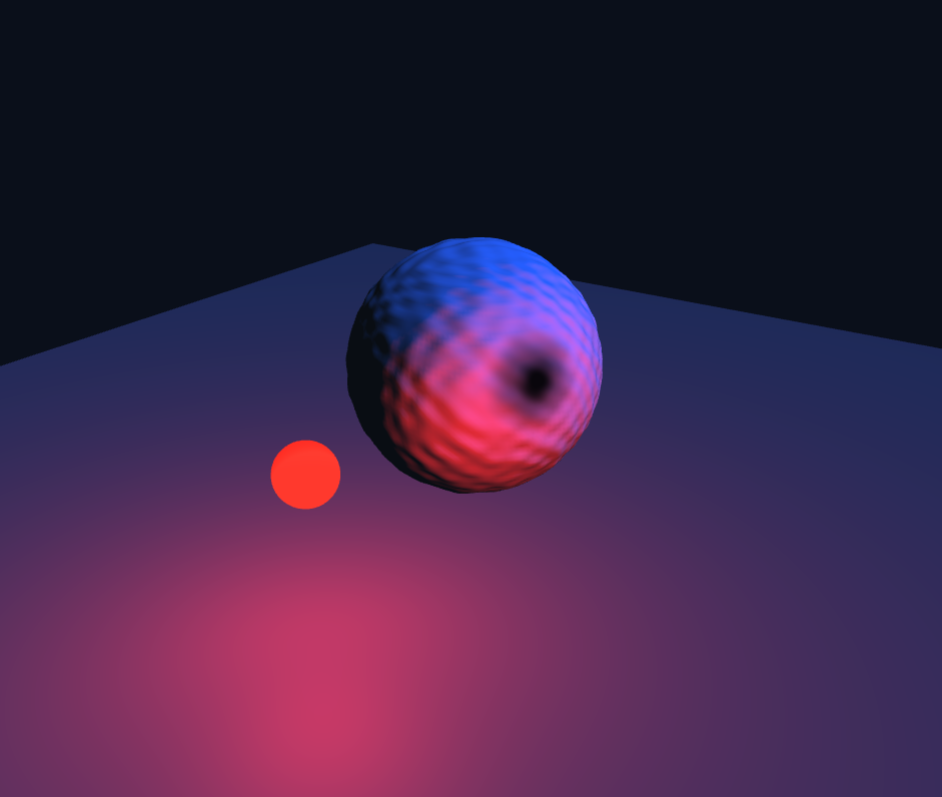
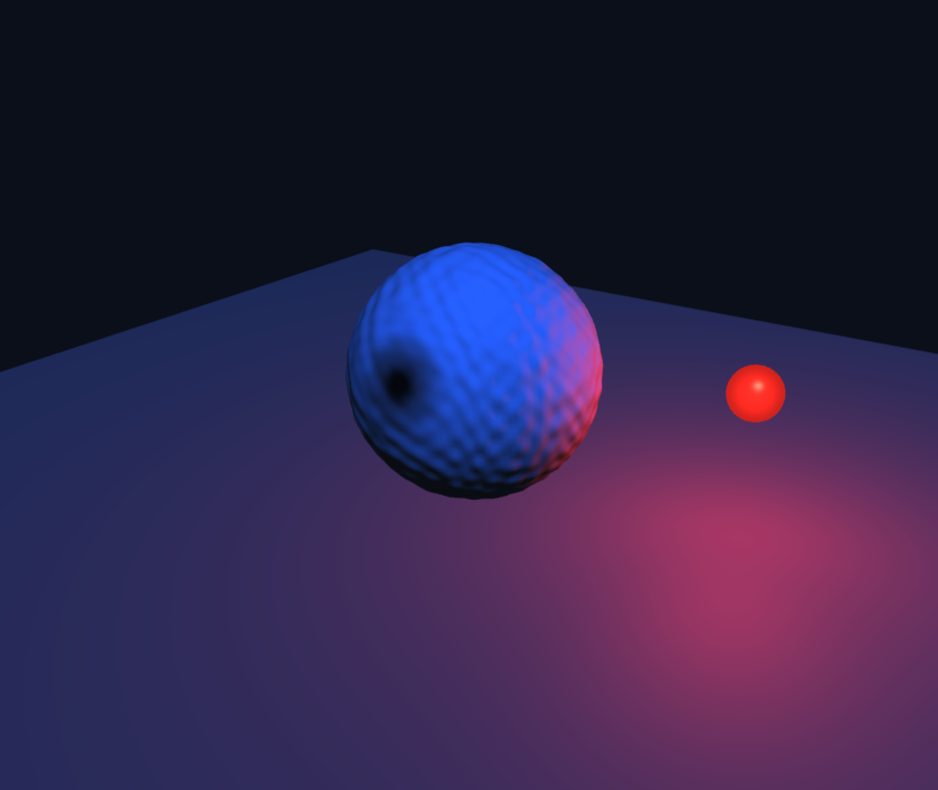
Update week5 report

diff --git a/week5/task1.html b/week5/task1.html
@@ -214,10 +214,15 @@ const Mat4 = {
     let det = a00*b01 + a01*b11 + a02*b21;
     if (!det) return new Float32Array([1,0,0, 0,1,0, 0,0,1]);
     det = 1 / det;
-    return new Float32Array([
-      b01*det, (-a22*a01 + a02*a21)*det, ( a12*a01 - a02*a11)*det,
-      b11*det, ( a22*a00 - a02*a20)*det, (-a12*a00 + a02*a10)*det,
-      b21*det, (-a21*a00 + a01*a20)*det, ( a11*a00 - a01*a10)*det]);
+    
+  return new Float32Array([
+    b01*det, b11*det, b21*det,
+    (-a22*a01 + a02*a21)*det,
+    (a22*a00 - a02*a20)*det,
+    (-a21*a00 + a01*a20)*det,
+    (a12*a01 - a02*a11)*det,
+    (-a12*a00 + a02*a10)*det,
+    (a11*a00 - a01*a10)*det]);
   },
 };
 

diff --git a/week5/task2.html b/week5/task2.html
@@ -243,7 +243,7 @@ void main() {
 
   vec3 finalColor = ambient + redLight + blueLight;
 
-  // 행성 표면에 부드럽게 번지는 희고 옅은 푸른색 이상 반응.
+  // 행성 표면에 검은 이상 지점을 표현
   // 별도 구체를 붙이지 않고 행성 표면 색상만 자연스럽게 섞는다.
   if (uIsPlanet) {
     vec3 surface = normalize(vLocalPos);
